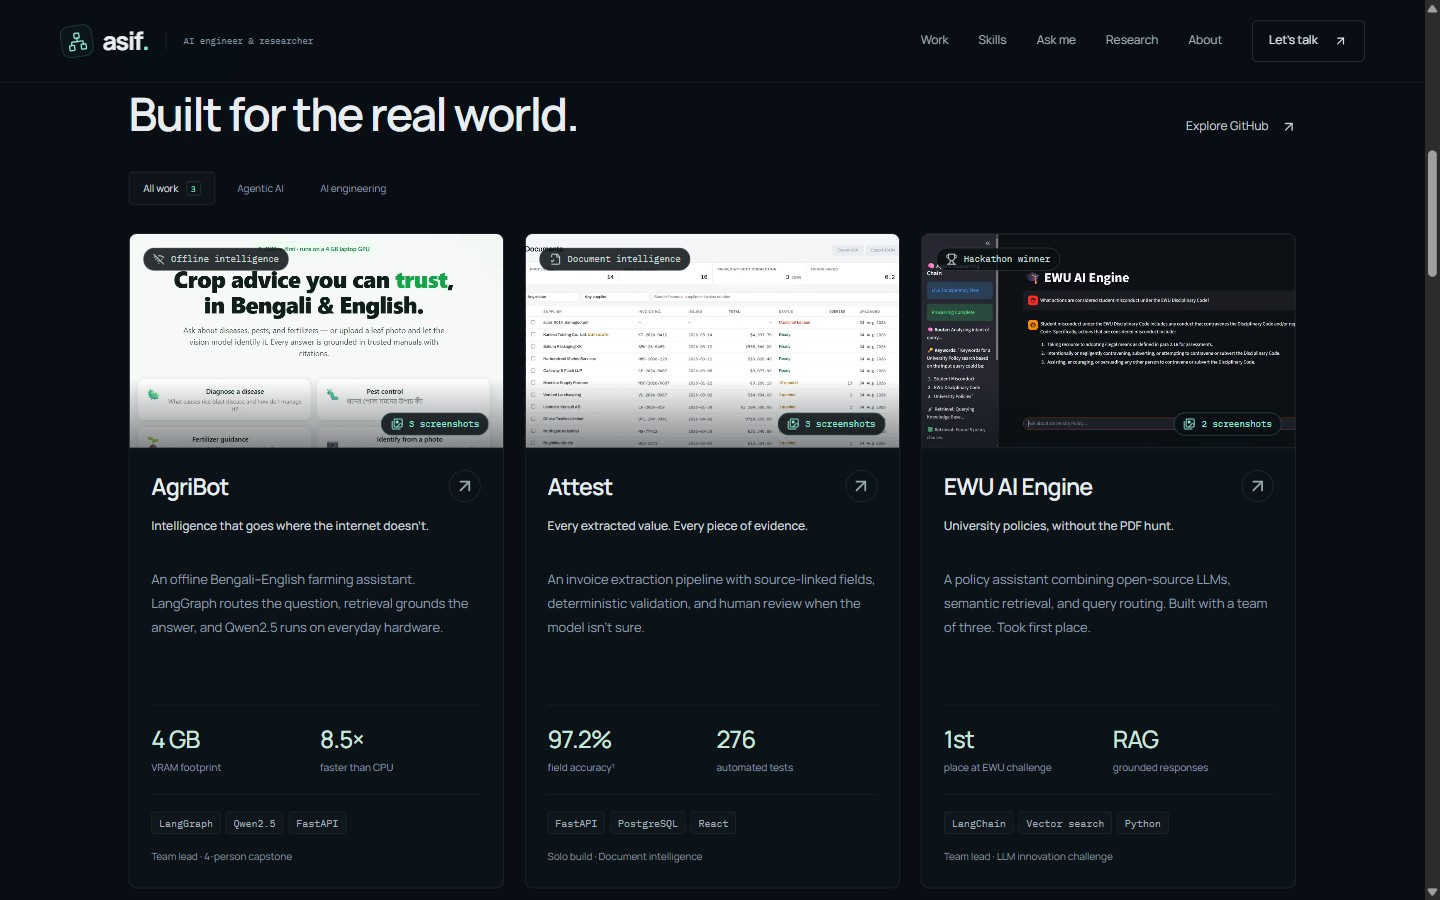
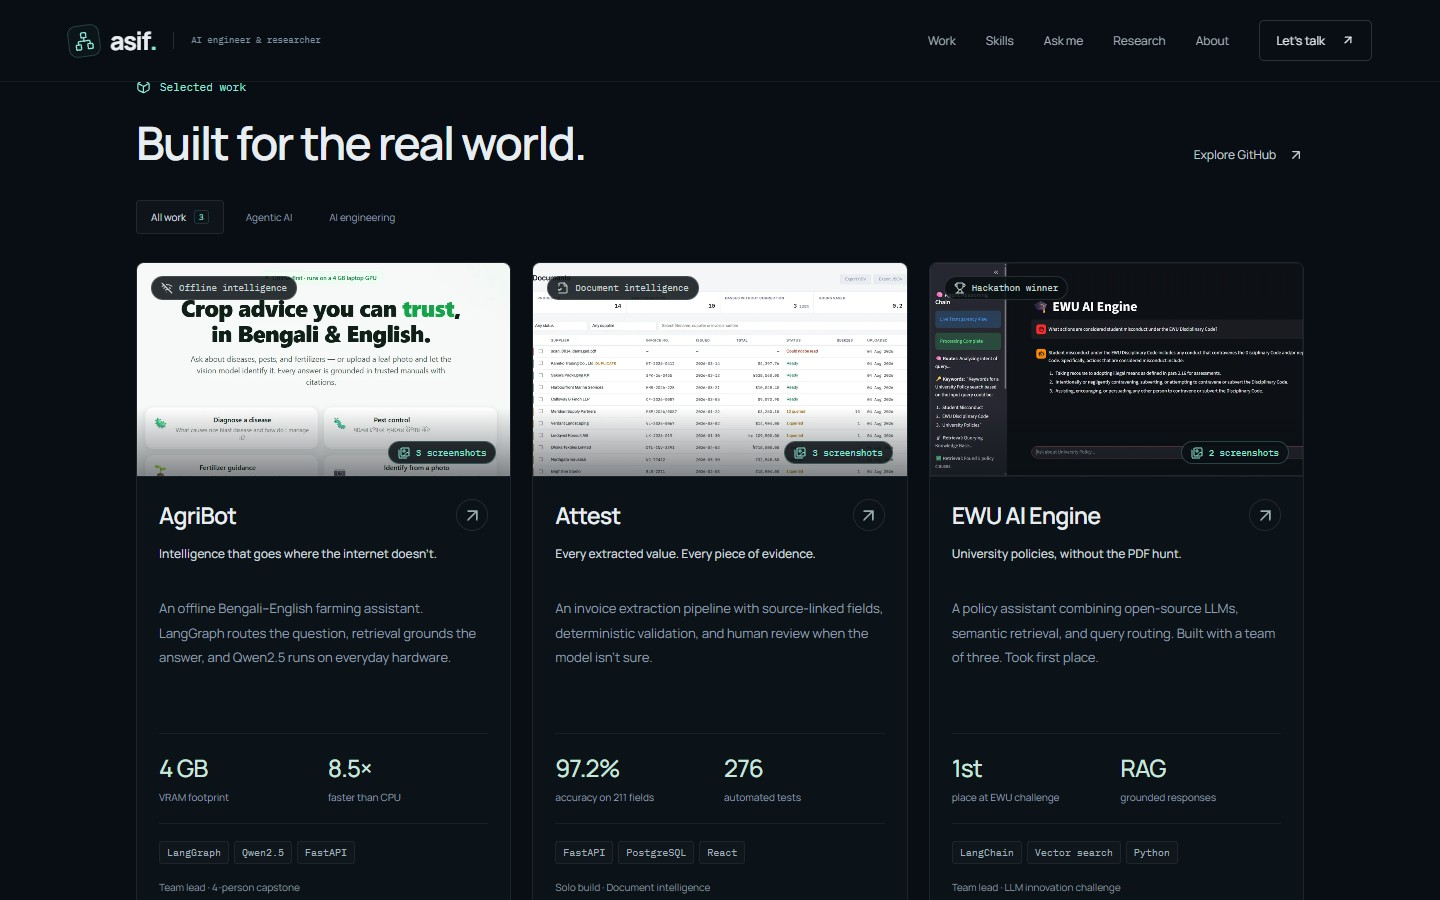
Replace the Attest footnote with a clearer metric label

diff --git a/src/App.tsx b/src/App.tsx
@@ -413,7 +413,7 @@ const projects = [
     description:
       'An invoice extraction pipeline with source-linked fields, deterministic validation, and human review when the model isn’t sure.',
     metric: '97.2%',
-    metricLabel: 'field accuracy¹',
+    metricLabel: 'accuracy on 211 fields',
     second: '276',
     secondLabel: 'automated tests',
     tags: ['FastAPI', 'PostgreSQL', 'React'],
@@ -740,10 +740,6 @@ function Projects() {
             </motion.article>
           ))}
       </div>
-      <p className="metric-note">
-        ¹ Attest: 211 evaluated fields. Metrics reflect the project evaluations documented in this
-        portfolio.
-      </p>
       <ProjectGallery gallery={gallery} onChange={setGallery} />
       <div className="other-projects">
         <h3>Other projects</h3>

diff --git a/src/styles.css b/src/styles.css
@@ -993,11 +993,6 @@ section,
   color: #84939e;
   margin-top: 15px;
 }
-.metric-note {
-  font-size: 9px;
-  color: #7e8e99;
-  margin-top: 13px;
-}
 .other-projects {
   margin-top: 46px;
 }
@@ -2757,9 +2752,6 @@ section,
   .art-caption {
     font-size: 9px;
   }
-  .metric-note {
-    font-size: 8px;
-  }
   .expertise-grid {
     gap: 32px 0;
   }
@@ -3097,8 +3089,7 @@ section,
   }
   .project-role,
   .tags > span,
-  .project-metrics span,
-  .metric-note {
+  .project-metrics span {
     font-size: 10px;
   }
   .expertise-grid p {

diff --git a/tests/portfolio.spec.ts b/tests/portfolio.spec.ts
@@ -223,6 +223,8 @@ test('other projects appear as cards with screenshots and GitHub links', async (
   await page.goto('/');
   await expect(page.locator('.other-card')).toHaveCount(3);
   await expect(page.locator('.project-card')).toHaveCount(3);
+  const chip = (await page.locator('.tags > span').first().boundingBox())!;
+  expect(chip.height).toBeLessThan(30);
   await expect(page.getByRole('link', { name: 'View ArticleAI on GitHub' })).toHaveAttribute(
     'href',
     'https://github.com/MdAsif-Hossain/ArticleAI',
